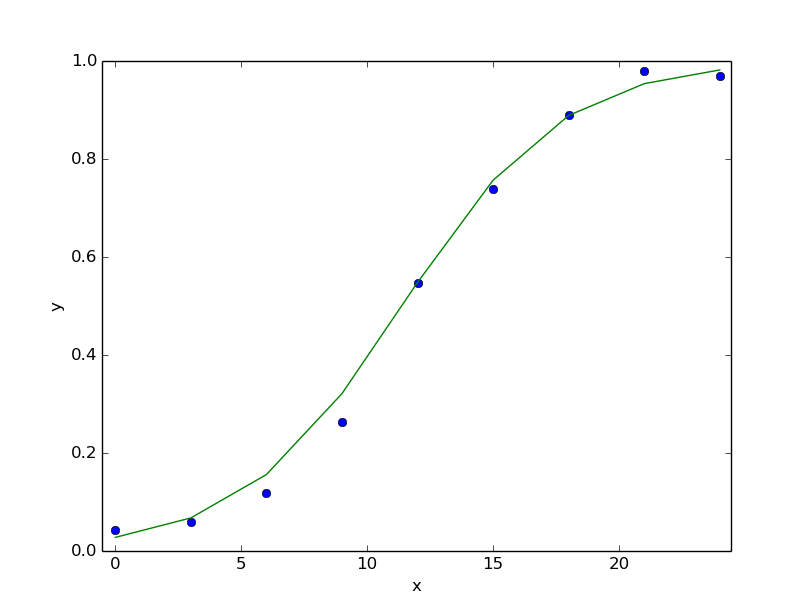
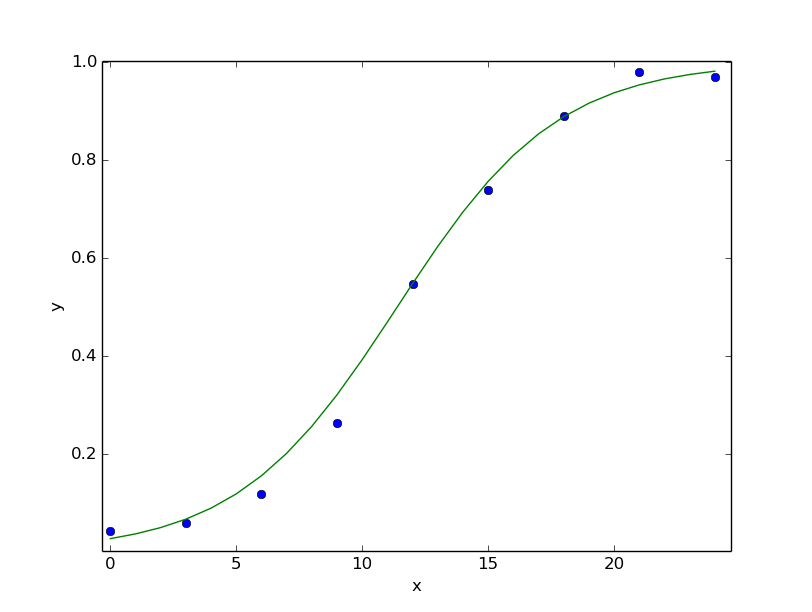
hw2 done and corrected

diff --git a/hw2/3_8.py b/hw2/3_8.py
@@ -4,36 +4,39 @@ import matplotlib.pyplot as plt
 def main():
     ohms_data = genfromtxt('ohms_data.csv', delimiter=',')
 
-    xs = ohms_data[1:,0]
-    fxs = 1/xs
+    xs = ohms_data[:,0]
+    # fxs = 1/xs
 
-    Fp = [e for e in fxs]
-    unos = [1 for e in fxs]
-    F = [unos, Fp]
-    F = array(F)
+    Xp = [e for e in xs]
+    unos = [1 for e in xs]
+    X = [unos, Xp]
+    X = array(X)
 
-    y = ohms_data[1:,1] 
+    y = ohms_data[:,1]
+    ytransformed = 1/y
 
-    w_opt = dot(linalg.pinv(dot(F,F.T)), dot(F,y))
+    w_opt = dot(linalg.pinv(dot(X,X.T)), dot(X,ytransformed))
     b = w_opt[0]
     w = w_opt[1]
     print 'b_opt = ', b, '  w_opt = ', w
     
-    fitline = b + w/linspace(1,105,105)
+    # fitline = 1/(b + w*xs)
+    fitline = 1/(b + w*linspace(0,105,106))
 
-    plt.plot(ohms_data[:,0], ohms_data[:,1], 'o')
-    plt.plot(linspace(1,105,105), fitline)
+    plt.plot(xs, y, 'o')
+    # plt.plot(xs, fitline)
+    plt.plot(linspace(0,105,106), fitline)
     plt.ylim([0,5])
-    plt.xlim([0,105])
+    plt.xlim([-1,105])
     plt.xlabel('x')
     plt.ylabel('y')
     plt.show()
 
-    # plt.plot(fxs, y, 'o')
-    # plt.plot(fxs, fitline)
-    # plt.xlabel('f(x)=1/x')
-    # plt.ylabel('y')
-    # plt.show()
+    plt.plot(xs, 1/y, 'o')
+    plt.plot(linspace(0,105,106), 1/fitline)
+    plt.xlabel('x')
+    plt.ylabel('f(y)=1/y')
+    plt.show()
 
 
 main()

diff --git a/hw2/3_5.py b/hw2/3_5.py
@@ -20,16 +20,16 @@ def main():
     w = w_opt[1]
     print 'b_opt = ', b, 'w_opt = ', w
     
-    fitline = b + w*fxs
+    fitline = b + w*sin(2*pi*linspace(0,1,50))
 
-    plt.plot(xs, y, '*')
-    plt.plot(xs, fitline)
+    plt.plot(xs, y, 'o')
+    plt.plot(linspace(0,1,50), fitline)
     plt.xlabel('x')
     plt.ylabel('y')
     plt.show()
 
     plt.plot(fxs, y, '*')
-    plt.plot(fxs, fitline)
+    plt.plot(sin(2*pi*linspace(0,1,50)), fitline)
     plt.xlabel('f(x)')
     plt.ylabel('y')
     plt.show()

diff --git a/hw2/3_10c.py b/hw2/3_10c.py
@@ -20,10 +20,10 @@ def main():
     w = w_opt[1]
     print 'b_opt = ', b, 'w_opt = ', w
     
-    fitline = 1/(1+exp(-b-w*xs))
+    fitline = 1/(1+exp(-b-w*linspace(0,24,25)))
 
     plt.plot(xs, y, 'o')
-    plt.plot(xs, fitline)
+    plt.plot(linspace(0,24,25), fitline)
     plt.xlabel('x')
     plt.ylabel('y')
     plt.show()
